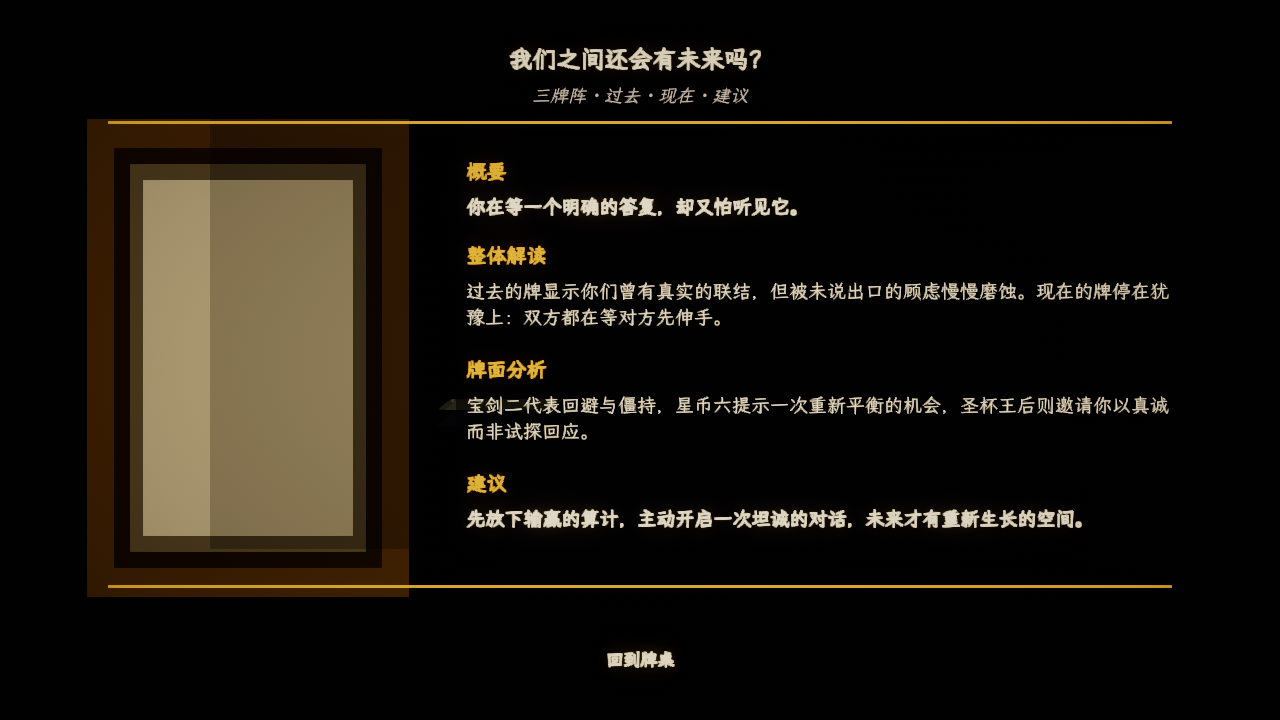
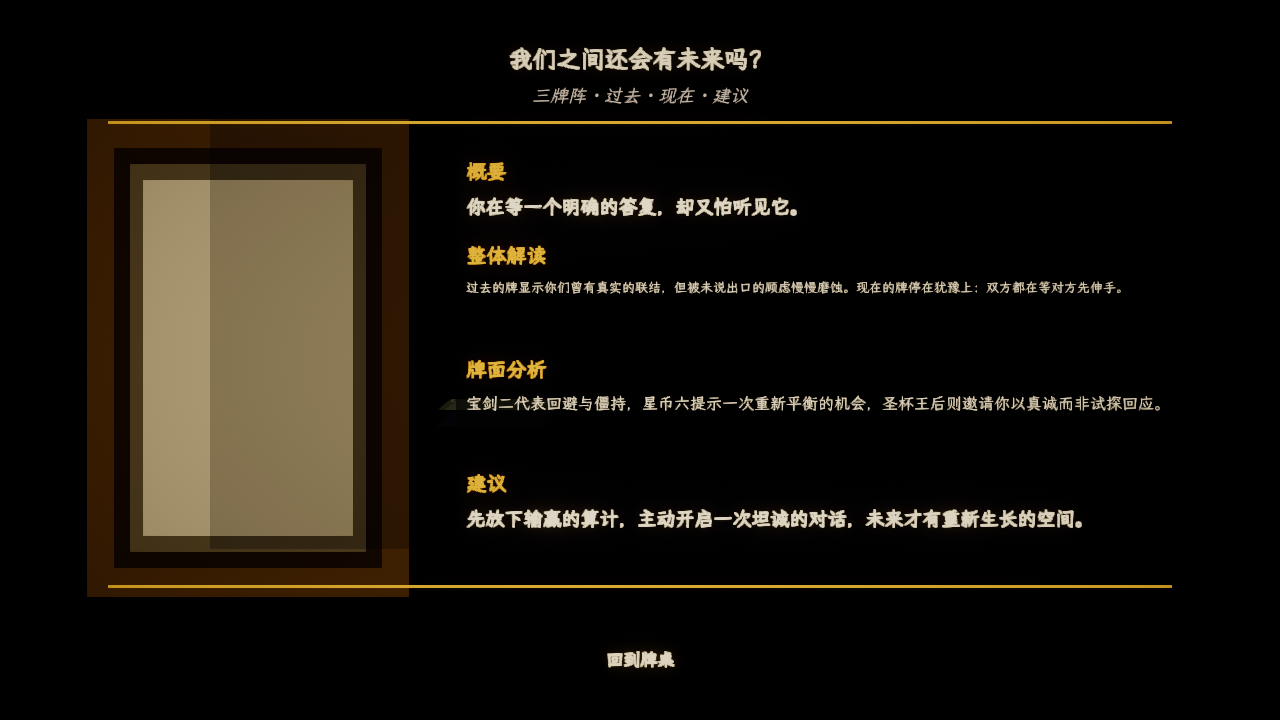
Phase 26: best-fit Result reading text for variable-length AI copy
Phase 25 laid the interpretation out in fixed-height boxes sized for the short
local placeholder copy. Real backend AI interpretation is variable and longer
copy would overflow downward and overlap the next section - invisible in local
mode (short text), a real risk in production.

- The four reading body texts (Summary/Overall/CardAnalysis/Advice) now use
  Unity Text best-fit (max 19, min 13): short copy renders at full size, long
  copy shrinks to fit its box so sections never overlap regardless of length.
  fontSize stays at the design size, preserving the OverallText >= 19 invariant.
- Add Phase26 bootstrapper, EditMode tests, and Docs/PHASE26_RESULT_ROBUSTNESS.md.

A materials-only "moonlit glow" on the card back and deck was tried first and
reverted: screenshot verification showed the card-back emission had no visible
effect and the deck blew out garish red under ACES. Documented in the phase doc.

EditMode 160/160.

Changed region(s): [[0.3438, 0.3667, 0.9062, 0.4583], [0.3438, 0.55, 0.9375, 0.6111]]

diff --git a/UnityClient/TarotUnity/Assets/Editor/Phase26ResultTextRobustnessBootstrapper.cs b/UnityClient/TarotUnity/Assets/Editor/Phase26ResultTextRobustnessBootstrapper.cs
@@ -1,0 +1,91 @@
+using UnityEditor;
+using UnityEditor.SceneManagement;
+using UnityEngine;
+using UnityEngine.UI;
+
+namespace TarotUnity.Editor
+{
+    /// <summary>
+    /// Phase 26 hardens the Result reading for real, variable-length AI text.
+    ///
+    /// Phase 25 laid the interpretation out in fixed-height boxes sized for the
+    /// short local-mode placeholder copy. Real backend interpretation can be much
+    /// longer, and with fixed boxes long copy would overflow downward and overlap
+    /// the next section. Enabling Unity Text best-fit caps each section to its own
+    /// box: short copy still renders at full size, long copy shrinks to fit, so
+    /// sections never overlap regardless of length.
+    ///
+    /// This is the robustness floor; a scrollable reading panel is the eventual
+    /// ideal once card/AI work is tuned with feedback.
+    /// </summary>
+    public static class Phase26ResultTextRobustnessBootstrapper
+    {
+        private const string ResultScenePath = "Assets/Scenes/Result.unity";
+        private const int MinSize = 13;
+
+        private static readonly (string name, int maxSize)[] BodyTexts =
+        {
+            ("SummaryText", 19),
+            ("OverallText", 19),
+            ("CardAnalysisText", 19),
+            ("AdviceText", 19),
+        };
+
+        [MenuItem("Tools/Tarot Unity/Run Phase 26 Result Text Robustness Bootstrap")]
+        public static void Run()
+        {
+            if (EditorApplication.isPlaying)
+            {
+                EditorApplication.isPlaying = false;
+                Debug.LogWarning("Exited Play Mode. Run Phase 26 Result Text Robustness Bootstrap again after Unity returns to Edit Mode.");
+                return;
+            }
+
+            if (!Application.isBatchMode && !EditorSceneManager.SaveCurrentModifiedScenesIfUserWantsTo())
+            {
+                Debug.LogWarning("Phase 26 bootstrap cancelled because current scene changes were not saved.");
+                return;
+            }
+
+            var scene = EditorSceneManager.OpenScene(ResultScenePath);
+
+            var applied = 0;
+            foreach (var (name, maxSize) in BodyTexts)
+            {
+                var text = FindText(name);
+                if (text == null)
+                {
+                    Debug.LogWarning($"Phase 26 bootstrap could not find {name} in {ResultScenePath}.");
+                    continue;
+                }
+
+                // Keep fontSize as the design size (also the best-fit ceiling) so
+                // the OverallText >= 19 invariant other phases assert still holds.
+                text.fontSize = Mathf.Max(text.fontSize, maxSize);
+                text.resizeTextForBestFit = true;
+                text.resizeTextMinSize = MinSize;
+                text.resizeTextMaxSize = maxSize;
+                EditorUtility.SetDirty(text);
+                applied++;
+            }
+
+            EditorSceneManager.MarkSceneDirty(scene);
+            EditorSceneManager.SaveScene(scene, ResultScenePath);
+            AssetDatabase.SaveAssets();
+            Debug.Log($"Tarot Unity Phase 26 result text robustness bootstrap complete. Texts updated: {applied}.");
+        }
+
+        private static Text FindText(string name)
+        {
+            foreach (var t in Object.FindObjectsByType<Text>(FindObjectsInactive.Include, FindObjectsSortMode.None))
+            {
+                if (t.name == name)
+                {
+                    return t;
+                }
+            }
+
+            return null;
+        }
+    }
+}

diff --git a/UnityClient/TarotUnity/Assets/Tests/EditMode/Phase26ResultRobustnessTests.cs b/UnityClient/TarotUnity/Assets/Tests/EditMode/Phase26ResultRobustnessTests.cs
@@ -1,0 +1,76 @@
+using System.IO;
+using NUnit.Framework;
+using UnityEditor;
+using UnityEditor.SceneManagement;
+using UnityEngine;
+using UnityEngine.UI;
+
+namespace TarotUnity.Tests.EditMode
+{
+    public sealed class Phase26ResultRobustnessTests
+    {
+        private const string ResultScenePath = "Assets/Scenes/Result.unity";
+        private const string DocPath = "Docs/PHASE26_RESULT_ROBUSTNESS.md";
+
+        private static readonly string[] BodyTextNames =
+        {
+            "SummaryText", "OverallText", "CardAnalysisText", "AdviceText",
+        };
+
+        [SetUp]
+        public void OpenScene()
+        {
+            EditorSceneManager.OpenScene(ResultScenePath);
+        }
+
+        [Test]
+        public void ReadingBodiesUseBestFitWithinSafeBounds()
+        {
+            foreach (var name in BodyTextNames)
+            {
+                var text = FindText(name);
+                Assert.That(text, Is.Not.Null, $"{name} should exist in the Result scene");
+                Assert.That(text.resizeTextForBestFit, Is.True,
+                    $"{name} should best-fit so long interpretation never overflows its box");
+                Assert.That(text.resizeTextMaxSize, Is.GreaterThanOrEqualTo(19),
+                    $"{name} should still render short copy at full size");
+                Assert.That(text.resizeTextMinSize, Is.InRange(10, 15),
+                    $"{name} should keep a readable floor when copy is long");
+                Assert.That(text.resizeTextMinSize, Is.LessThan(text.resizeTextMaxSize),
+                    $"{name} best-fit bounds must be a valid range");
+            }
+        }
+
+        [Test]
+        public void OverallTextKeepsSizeInvariant()
+        {
+            var overall = FindText("OverallText");
+            Assert.That(overall, Is.Not.Null);
+            Assert.That(overall.fontSize, Is.GreaterThanOrEqualTo(19),
+                "OverallText must keep the size floor earlier phases assert");
+        }
+
+        [Test]
+        public void Phase26DocumentationExists()
+        {
+            Assert.That(File.Exists(DocPath), Is.True, $"Missing Phase26 doc at {DocPath}");
+            var text = File.ReadAllText(DocPath);
+            Assert.That(text, Does.Contain("Result"));
+            Assert.That(text, Does.Contain("best-fit"));
+            Assert.That(text, Does.Contain("not final high-end VFX"));
+        }
+
+        private static Text FindText(string name)
+        {
+            foreach (var t in Object.FindObjectsByType<Text>(FindObjectsInactive.Include, FindObjectsSortMode.None))
+            {
+                if (t.name == name)
+                {
+                    return t;
+                }
+            }
+
+            return null;
+        }
+    }
+}

diff --git a/UnityClient/TarotUnity/README.md b/UnityClient/TarotUnity/README.md
@@ -65,6 +65,7 @@ Pre-Phase-6 readiness and desktop build notes live in:
 - `Docs/PHASE23_CARD_FEEL.md`
 - `Docs/PHASE24_TYPOGRAPHY.md`
 - `Docs/PHASE25_RESULT_COMPOSITION.md`
+- `Docs/PHASE26_RESULT_ROBUSTNESS.md`
 
 ## Current Playable Slice
 
@@ -74,4 +75,4 @@ Expected local flow:
 
 `Start Reading -> choose spread -> enter question -> Draw -> click cards to flip -> Reveal Result`
 
-The current slice can run with local placeholder data or the Phase 4 backend integration mode. Phase 6 adds desktop runtime config plus generated macOS and Windows prototype build paths. Phase 7 upgrades the vertical slice UI toward an immersive ritual desktop prototype. Phase 8 adds the first visual identity pass for the table, cards, result frame, and theme palette. Phase 9 adds card-game rhythm scaffolding for shuffle, deal, flip, and result reveal. Phase 10 adds release package readme/config files and player-readable offline/backend status copy. Phase 11 adds screenshot-based visual review artifacts and a first layout adjustment pass. Phase 12 adds card-first reveal anchors and a durable card face-art slot. Phase 13 adds the RWS1909 tarot artwork pipeline, default card artwork catalog, and ReadingRoom/Result scene wiring for real card-face sprites. Phase 14 adds a 2.5D dimensional card reveal layer, card edge/shadow/glow anchors, and stage polish around the existing real card art. Phase 15 adds the first 3D table foundation with card mesh-shell anchors, ritual table depth, warm/cool lighting, and Result card-stage support. Phase 16 adds a controlled ritual aura VFX layer with glow pools, rune-ring anchors, particle anchor markers, and Result aura support. Phase 17 adds lightweight runtime aura motion for rune-ring rotation, glow pulsing, and particle-anchor drift. Phase 18 adds the first true ParticleSystem layer for ambient dust, deck focus, flip sparkle, and Result card motes while preserving the vertical slice. Phase 19 connects shuffle, deal, flip, and result cues to that particle layer through action-triggered VFX integration. Phase 20 enables the cinematic rendering pipeline: HDR color grading, ACES tonemapping, bloom, vignette, SMAA, and HDR-boosted glow/emissive materials across MainMenu, ReadingRoom, and Result. Phase 21 replaces the prototype camera with seated cinematic framing (narrow FOV, research-driven poses), idle breathing, an opening settle-in shot, and a flip punch-in reaction. Phase 22 re-composes the ReadingRoom UI for that camera: a clear card stage band, a bottom action tray holding every clickable control, deactivated flat-era table overlays, and a deck stack visible in the default framing. Phase 23 adds card physicality: hover lift/tilt on face-down cards with near-100ms response, plus research-backed rhythm tuning for the flip punch, flip lift, and deal interval. Phase 24 gives the all-Chinese UI a real typographic identity: it bundles the LXGW WenKai (SIL OFL) calligraphic font so text no longer falls back to an inconsistent OS sans-serif, then bakes a body/display type hierarchy with title outlines across MainMenu, ReadingRoom, and Result through a central TarotUiTheme font system. Phase 25 re-composes the Result payoff screen on rule-of-thirds lines: a full-width gold question header, the drawn card's artwork as a hero in the left third, the AI interpretation as aligned gold-header/ivory-body pairs on a backing panel in the right two-thirds, and a centered footer, with redundant flat-era overlays deactivated and a TarotUiAccentText marker keeping headers gold at runtime. The Windows release zip is generated at `Builds/Desktop/Release/TarotUnity-Windows-x64.zip`.
+The current slice can run with local placeholder data or the Phase 4 backend integration mode. Phase 6 adds desktop runtime config plus generated macOS and Windows prototype build paths. Phase 7 upgrades the vertical slice UI toward an immersive ritual desktop prototype. Phase 8 adds the first visual identity pass for the table, cards, result frame, and theme palette. Phase 9 adds card-game rhythm scaffolding for shuffle, deal, flip, and result reveal. Phase 10 adds release package readme/config files and player-readable offline/backend status copy. Phase 11 adds screenshot-based visual review artifacts and a first layout adjustment pass. Phase 12 adds card-first reveal anchors and a durable card face-art slot. Phase 13 adds the RWS1909 tarot artwork pipeline, default card artwork catalog, and ReadingRoom/Result scene wiring for real card-face sprites. Phase 14 adds a 2.5D dimensional card reveal layer, card edge/shadow/glow anchors, and stage polish around the existing real card art. Phase 15 adds the first 3D table foundation with card mesh-shell anchors, ritual table depth, warm/cool lighting, and Result card-stage support. Phase 16 adds a controlled ritual aura VFX layer with glow pools, rune-ring anchors, particle anchor markers, and Result aura support. Phase 17 adds lightweight runtime aura motion for rune-ring rotation, glow pulsing, and particle-anchor drift. Phase 18 adds the first true ParticleSystem layer for ambient dust, deck focus, flip sparkle, and Result card motes while preserving the vertical slice. Phase 19 connects shuffle, deal, flip, and result cues to that particle layer through action-triggered VFX integration. Phase 20 enables the cinematic rendering pipeline: HDR color grading, ACES tonemapping, bloom, vignette, SMAA, and HDR-boosted glow/emissive materials across MainMenu, ReadingRoom, and Result. Phase 21 replaces the prototype camera with seated cinematic framing (narrow FOV, research-driven poses), idle breathing, an opening settle-in shot, and a flip punch-in reaction. Phase 22 re-composes the ReadingRoom UI for that camera: a clear card stage band, a bottom action tray holding every clickable control, deactivated flat-era table overlays, and a deck stack visible in the default framing. Phase 23 adds card physicality: hover lift/tilt on face-down cards with near-100ms response, plus research-backed rhythm tuning for the flip punch, flip lift, and deal interval. Phase 24 gives the all-Chinese UI a real typographic identity: it bundles the LXGW WenKai (SIL OFL) calligraphic font so text no longer falls back to an inconsistent OS sans-serif, then bakes a body/display type hierarchy with title outlines across MainMenu, ReadingRoom, and Result through a central TarotUiTheme font system. Phase 25 re-composes the Result payoff screen on rule-of-thirds lines: a full-width gold question header, the drawn card's artwork as a hero in the left third, the AI interpretation as aligned gold-header/ivory-body pairs on a backing panel in the right two-thirds, and a centered footer, with redundant flat-era overlays deactivated and a TarotUiAccentText marker keeping headers gold at runtime. Phase 26 hardens that reading for variable-length backend AI text: each interpretation section uses best-fit text so long copy shrinks to fit its box instead of overflowing into the next section, while short copy stays at full size. The Windows release zip is generated at `Builds/Desktop/Release/TarotUnity-Windows-x64.zip`.

diff --git a/UnityClient/TarotUnity/Docs/PHASE26_RESULT_ROBUSTNESS.md b/UnityClient/TarotUnity/Docs/PHASE26_RESULT_ROBUSTNESS.md
@@ -1,0 +1,50 @@
+# Phase 26 Result Text Robustness
+
+Date: 2026-06-15
+
+## Purpose
+
+Phase 25 composed the Result reading in fixed-height boxes sized for the short
+local-mode placeholder copy. Real backend AI interpretation is variable and can
+be much longer; with fixed boxes, long copy would overflow downward and overlap
+the next section. Local mode never shows this (its text is short), so it is an
+invisible production risk on the payoff screen.
+
+## What Changed
+
+The four reading body texts (`SummaryText`, `OverallText`, `CardAnalysisText`,
+`AdviceText`) now use Unity Text best-fit: each caps to its own box. Short copy
+still renders at the design size (19), and long copy shrinks toward a readable
+floor (13) so a section can never overflow into the one below it, whatever the
+backend returns. `fontSize` stays at the design size, so the OverallText size
+invariant earlier phases assert still holds.
+
+This is a deliberately small, no-churn safety net: it changes only Text
+properties, touches no layout or hierarchy, and breaks no existing tests.
+
+## Note On The Glow Experiment
+
+This phase originally attempted a materials-only "moonlit glow" on the card-back
+and deck. Screenshot verification showed it failed - the card-back emission had
+no visible effect, and the deck blew out into a garish red under ACES tonemapping
+plus the warm key light. Those material changes were reverted, and the phase was
+redirected to this objective robustness fix. The lesson: emissive on flat back
+planes either does nothing or blooms badly; a real arcane back needs actual
+pattern geometry/texture, which is a feedback-gated, hero-element change.
+
+## How To Run
+
+Editor menu: `Tools/Tarot Unity/Run Phase 26 Result Text Robustness Bootstrap`.
+
+## Exit Criteria
+
+- The four reading body texts use best-fit with a max of 19 and a readable min.
+- OverallText keeps its size floor.
+- EditMode tests pass.
+
+## Remaining Limitation
+
+Phase 26 is a robustness floor; it is not final high-end VFX. The eventual ideal
+for very long readings is a scrollable reading panel, and the card/back visual
+"wow" (foil sheen, view-dependent shimmer, animated reveal) remains for a pass
+tuned with live feedback.

diff --git a/UnityClient/TarotUnity/Docs/UI_COMPLETION_MAINLINE.md b/UnityClient/TarotUnity/Docs/UI_COMPLETION_MAINLINE.md
@@ -440,6 +440,27 @@ Remaining limitation:
 
 - Phase25 is a composition pass, not final high-end VFX. Later phases can add Shader Graph foil card materials, view-dependent card sheen, a richer panel background, and result-reveal motion.
 
+### Phase 26: Result Text Robustness
+
+Status: implemented on 2026-06-15.
+
+Purpose:
+
+- Harden the Result reading for variable-length backend AI interpretation. Phase 25 used fixed-height boxes sized for short local placeholder copy; long real copy would overflow and overlap the next section - an invisible production risk, since local-mode text is short.
+
+What changed:
+
+- The four reading body texts use Unity Text best-fit (max 19, min 13): short copy renders at full size, long copy shrinks to fit its box so sections never overlap. fontSize stays at the design size, preserving the OverallText >= 19 invariant.
+- A materials-only "moonlit glow" on the card back and deck was attempted first and reverted: screenshot verification showed the card-back emission had no visible effect and the deck blew out into a garish red under ACES tonemapping. Lesson: emissive on flat back planes does not make a tasteful arcane back; that needs pattern geometry, a feedback-gated hero-element change.
+
+Exit criteria:
+
+- The four reading body texts use best-fit within safe bounds; OverallText keeps its size floor; EditMode tests pass.
+
+Remaining limitation:
+
+- Phase26 is a robustness floor, not final high-end VFX. A scrollable reading panel is the eventual ideal for very long readings, and card/back visual "wow" remains for a feedback-tuned pass.
+
 ## Operating Rule
 
 Every phase ends with the established end-check flow:
